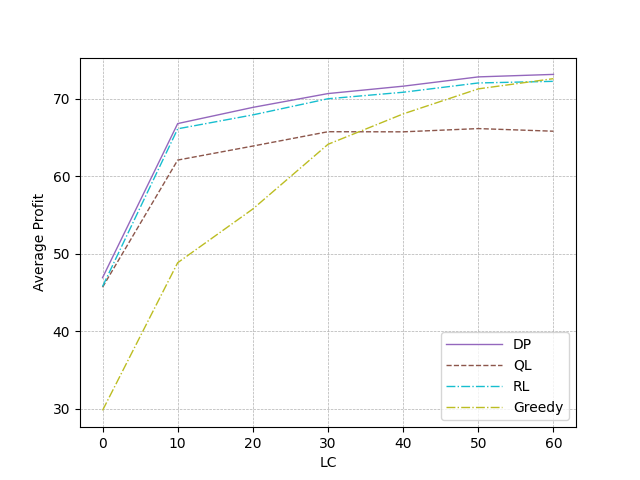
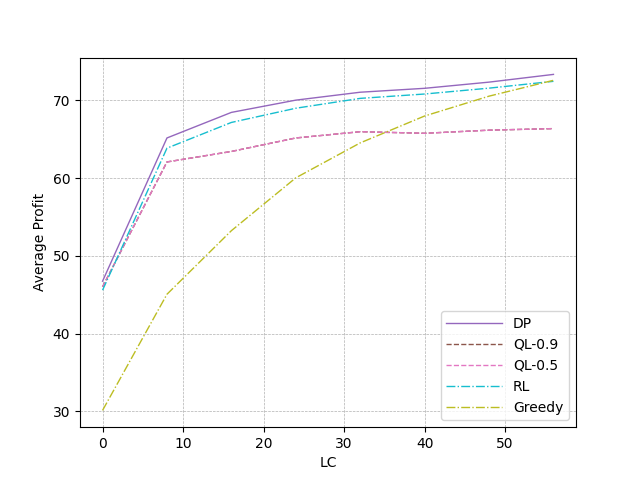
local capacity results

diff --git a/Single-Provider-Federation/quota-rejection/gap_plotter_gr_dp_2ql_rl.py b/Single-Provider-Federation/quota-rejection/gap_plotter_gr_dp_2ql_rl.py
@@ -62,7 +62,7 @@ for data in results:
     DP_60.append(DP_60_tmp)
     DP_95.append(DP_95_tmp)
     QL_09.append(QL_09_tmp)
-    QL_09.append(QL_09_tmp)
+    QL_05.append(QL_05_tmp)
     RL.append(RL_tmp)
 
 fig, ax = plt.subplots()
